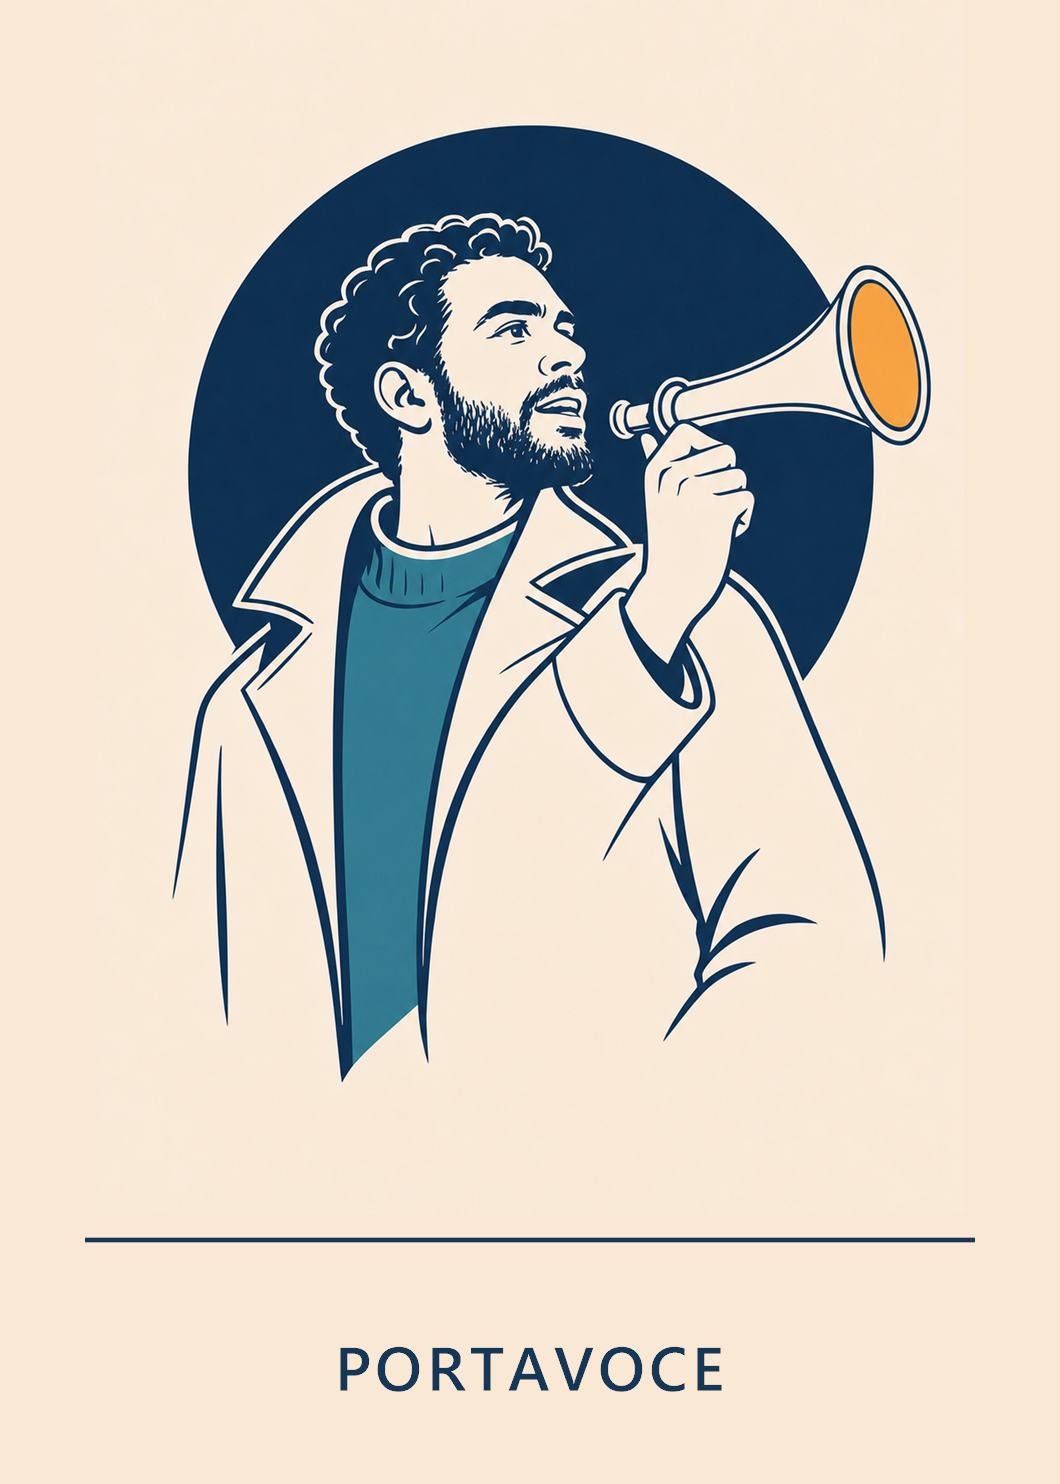
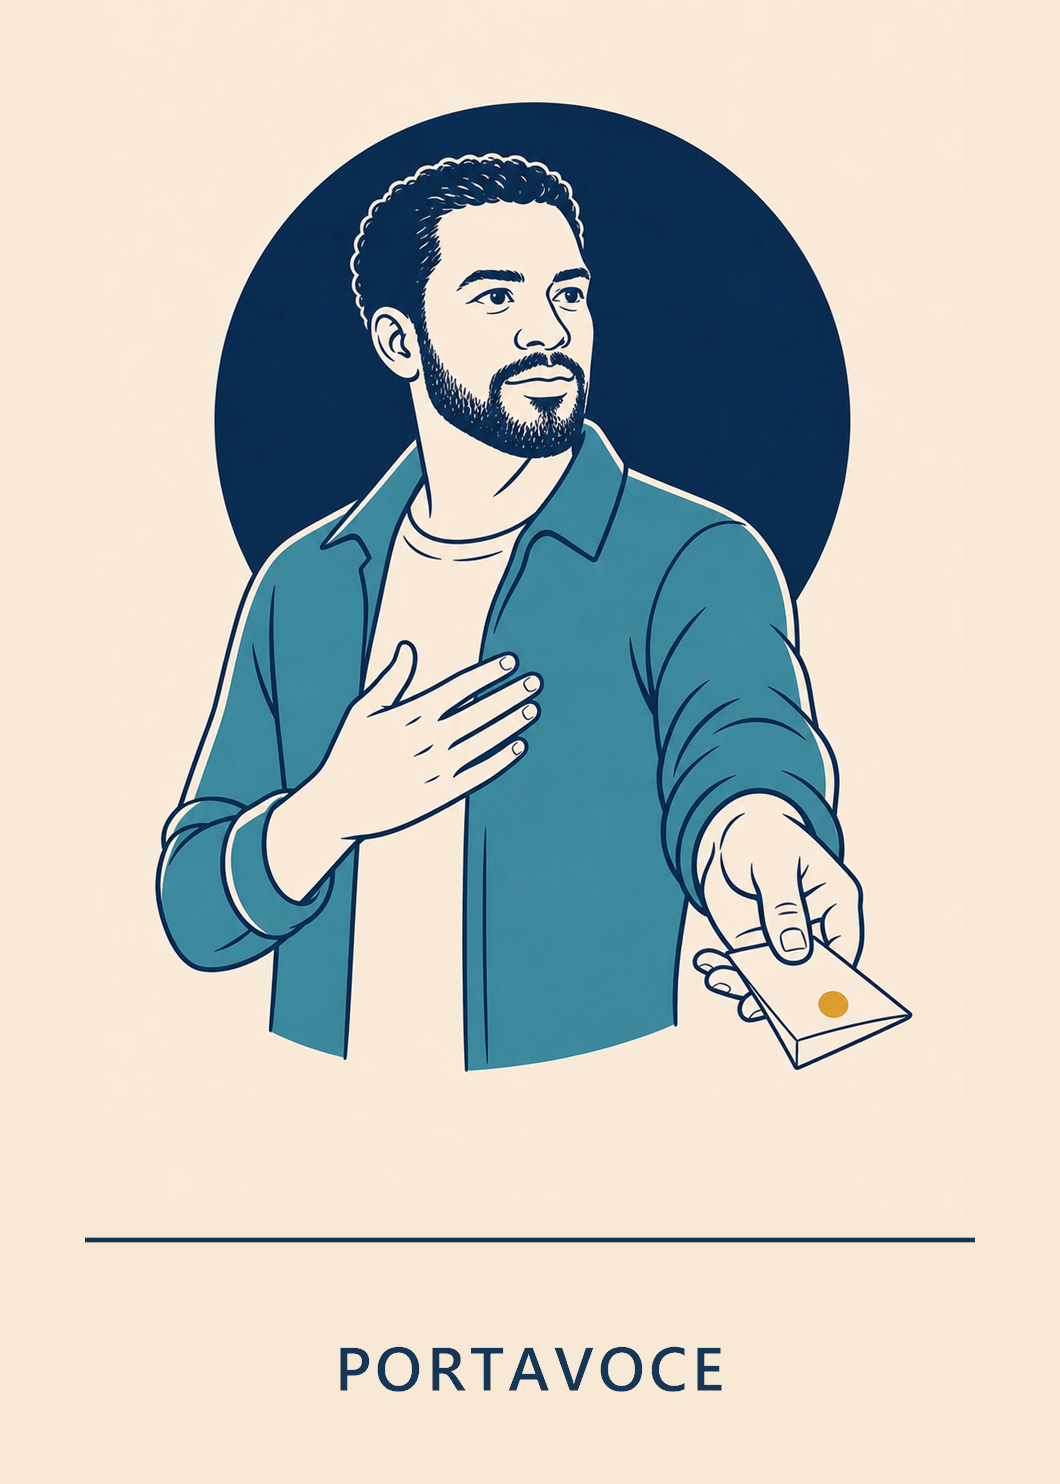
Redesign Portavoce card gesture

diff --git a/art/cards/minimal/README.md b/art/cards/minimal/README.md
@@ -64,7 +64,7 @@ Le carte etichettate possono essere rigenerate eseguendo
 | Sabotatore | Spegni-fiamma | Eliminazione della luce |
 | Sentinella | Lente | Verifica dell'allineamento |
 | Tecnico | Chiave inglese | Intervento d'emergenza |
-| Portavoce | Cornetta nautica | Ultima dichiarazione pubblica |
+| Portavoce | Biglietto sigillato | Ultimo messaggio e delega del voto |
 | Naufrago | Salvagente | Sopravvivenza |
 | Vedetta | Registro di ronda | Presenza di un'azione notturna |
 | Cartografa della Baia | Carta con due punti | Confronto tra due giocatori |
